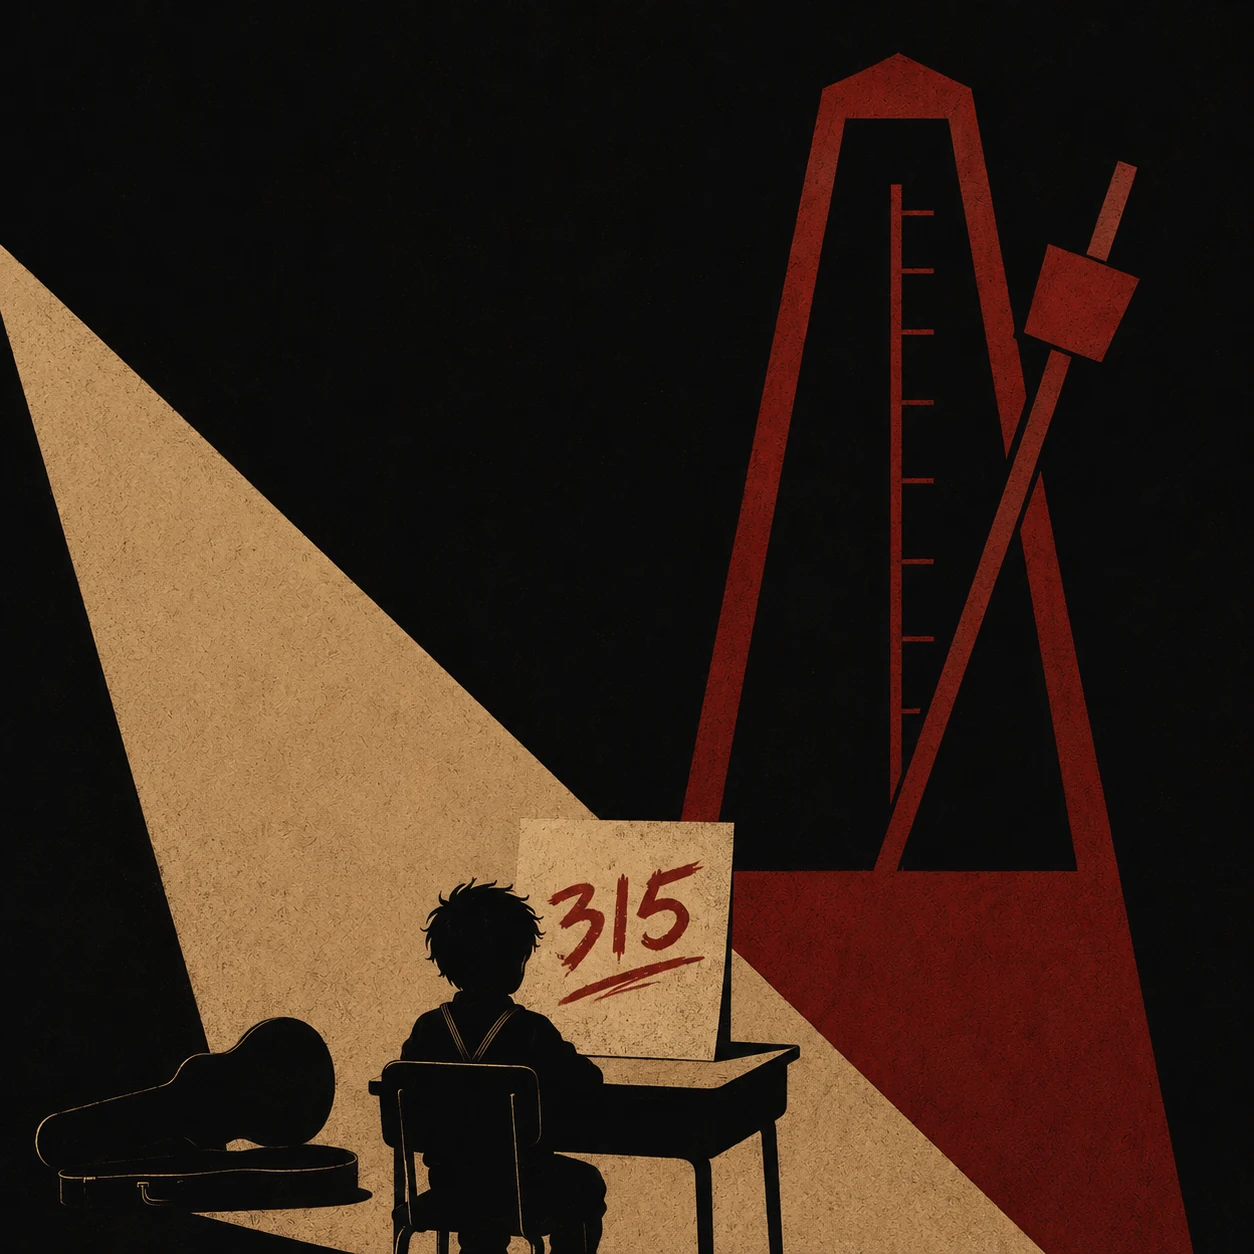
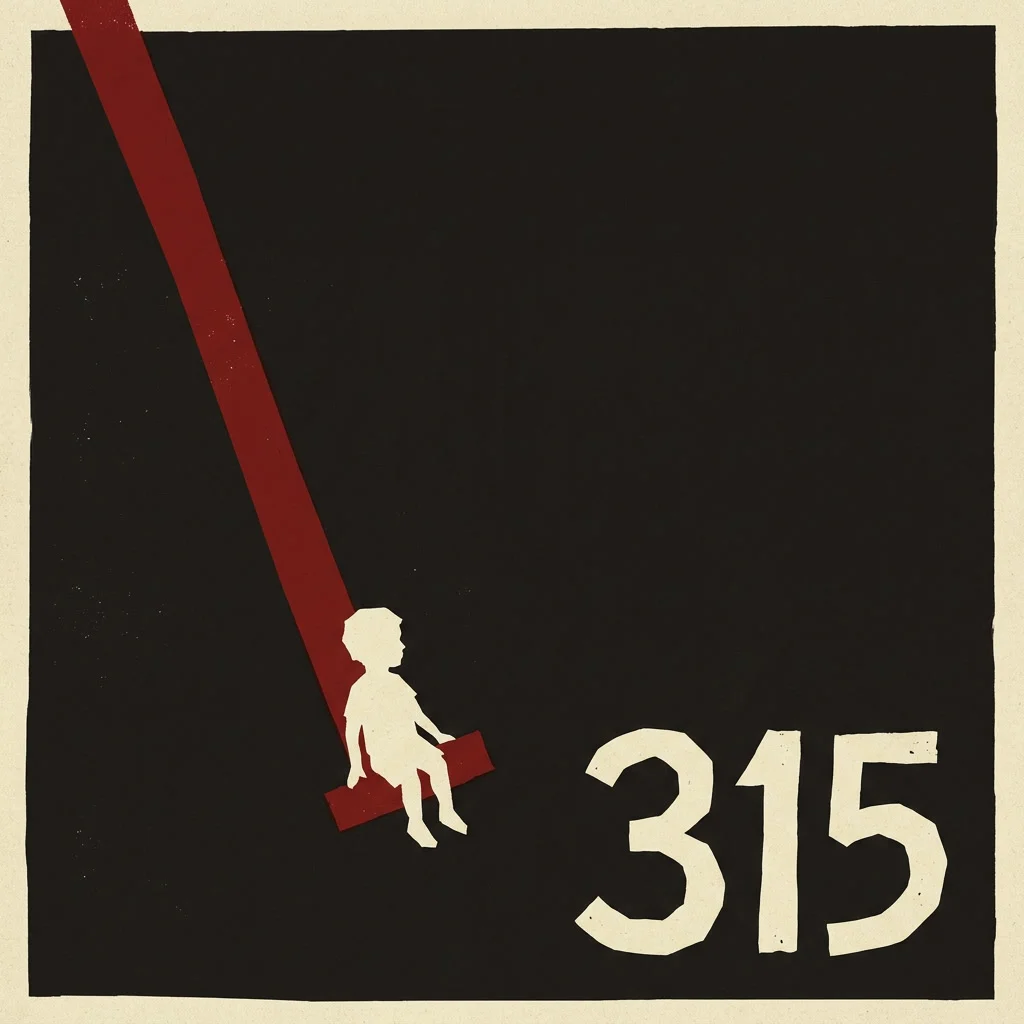
Replace Three Fifteen title art with new version; bump cache param

diff --git a/main.js b/main.js
@@ -4249,7 +4249,7 @@ function initJCLightbox() {
         { title: 'Take Your Time', act: 'Intermission', actInline: true, file: 'audio/junkyard-cabaret/take-your-time.mp3?v=202606261700', cover: 'audio/junkyard-cabaret/junkyard-cabaret-cover.webp?v=202605120946', noShare: true, noNumber: true },
         { title: 'Everything Must Go', act: 'Act II', file: 'audio/junkyard-cabaret/everything-must-go.mp3?v=202606141010', cover: 'audio/junkyard-cabaret/everything-must-go-title.webp?v=202606071656', article: 'https://charleswilke.substack.com/p/singular-intention' },
         { title: 'Refuse the Frequency', file: 'audio/junkyard-cabaret/refuse-the-frequency.mp3?v=202606190959', cover: 'audio/junkyard-cabaret/refuse-the-frequency-title.webp?v=202606142108', article: 'https://charleswilke.substack.com/p/salve-for-the-algorithmic-rash' },
-        { title: 'Three Fifteen', file: 'audio/junkyard-cabaret/three-fifteen.mp3', cover: 'audio/junkyard-cabaret/three-fifteen-title.webp?v=202606071656', article: 'https://charleswilke.substack.com/p/accumulated-velocity' },
+        { title: 'Three Fifteen', file: 'audio/junkyard-cabaret/three-fifteen.mp3', cover: 'audio/junkyard-cabaret/three-fifteen-title.webp?v=202607041707', article: 'https://charleswilke.substack.com/p/accumulated-velocity' },
         { title: 'Fits and Starts', file: 'audio/junkyard-cabaret/fits-and-starts.mp3?v=202607041700', cover: 'audio/junkyard-cabaret/fits-and-starts-title.webp?v=202606142108', article: 'https://charleswilke.substack.com/p/fits-and-starts' },
         { title: 'Mind the Drop', file: 'audio/junkyard-cabaret/mind-the-drop.mp3?v=202606261404', cover: 'audio/junkyard-cabaret/mind-the-drop-title.webp?v=202606201513', article: 'https://charleswilke.substack.com/p/creative-spirits' },
         { title: "Morning's Flood", file: 'audio/junkyard-cabaret/mornings-flood.mp3?v=202607041109', cover: 'audio/junkyard-cabaret/mornings-flood-title.webp', article: 'https://charleswilke.substack.com/p/cherish-your-confident-ire' }

diff --git a/songs/junkyard-cabaret/three-fifteen/index.html b/songs/junkyard-cabaret/three-fifteen/index.html
@@ -13,7 +13,7 @@
     <meta property="og:url" content="https://charleswilke.com/songs/junkyard-cabaret/three-fifteen/">
     <meta property="og:title" content="Three Fifteen | Junkyard Cabaret">
     <meta property="og:description" content="A track from Junkyard Cabaret. A ramshackle album-in-progress exploring conviction, imperfection, and the human insistence on making things by hand.">
-    <meta property="og:image" content="https://charleswilke.com/audio/junkyard-cabaret/three-fifteen-title.webp?v=202606071656">
+    <meta property="og:image" content="https://charleswilke.com/audio/junkyard-cabaret/three-fifteen-title.webp?v=202607041707">
     <meta property="og:image:width" content="1254">
     <meta property="og:image:height" content="1254">
     <meta property="og:image:alt" content="Three Fifteen title art">
@@ -22,7 +22,7 @@
     <meta name="twitter:url" content="https://charleswilke.com/songs/junkyard-cabaret/three-fifteen/">
     <meta name="twitter:title" content="Three Fifteen | Junkyard Cabaret">
     <meta name="twitter:description" content="A track from Junkyard Cabaret. A ramshackle album-in-progress exploring conviction, imperfection, and the human insistence on making things by hand.">
-    <meta name="twitter:image" content="https://charleswilke.com/audio/junkyard-cabaret/three-fifteen-title.webp?v=202606071656">
+    <meta name="twitter:image" content="https://charleswilke.com/audio/junkyard-cabaret/three-fifteen-title.webp?v=202607041707">
     <meta name="twitter:image:alt" content="Three Fifteen title art">
 
     <link rel="icon" type="image/x-icon" href="/favicon.ico?v=202607032147">
@@ -41,7 +41,7 @@
     "name": "Junkyard Cabaret"
   },
   "url": "https://charleswilke.com/songs/junkyard-cabaret/three-fifteen/",
-  "image": "https://charleswilke.com/audio/junkyard-cabaret/three-fifteen-title.webp?v=202606071656"
+  "image": "https://charleswilke.com/audio/junkyard-cabaret/three-fifteen-title.webp?v=202607041707"
 }
     </script>
 
